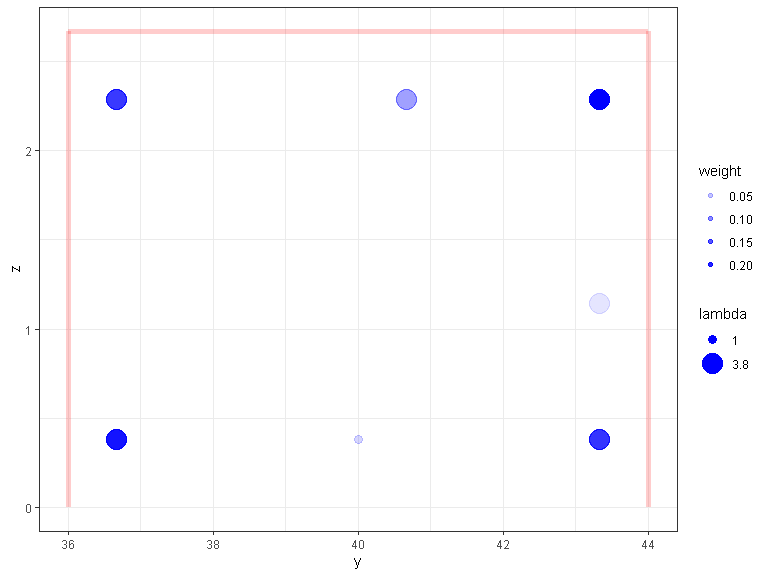
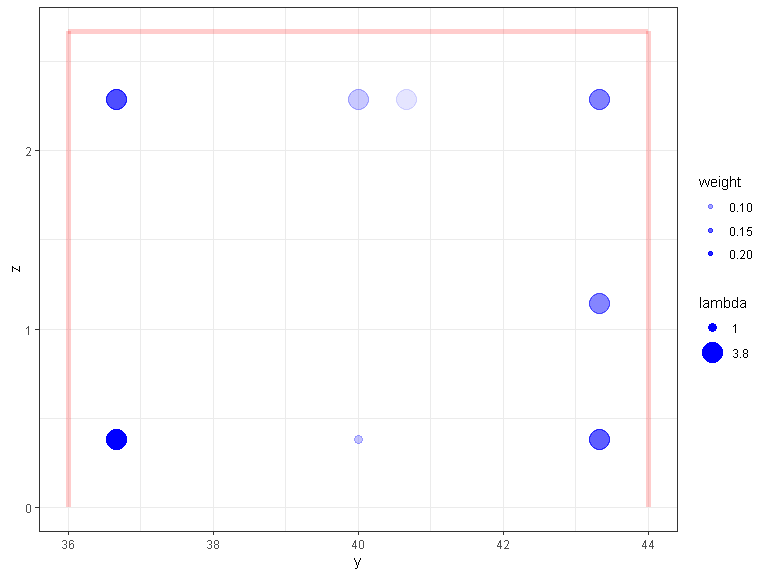
Save shot metrics

diff --git a/reproduction/miss_it_like_messi.md b/reproduction/miss_it_like_messi.md
@@ -4,6 +4,9 @@ Miss It Like Messi
 ``` r
 devtools::load_all()
 #> i Loading shotmissr
+#> Warning: Objects listed as exports, but not present in namespace:
+#> * global_weights
+#> * shot_metrics
 ```
 
 ## Table 1
@@ -221,60 +224,12 @@ Hunter_et_al_2018_shots |>
 
 ![](miss_it_like_messi_files/figure-gfm/figure_8-2.png)<!-- -->
 
-## Estimate global weights
-
-``` r
-shots_data <- statsbomb_shots_processed |>
-  prepare_shooting_skill_data()
-
-mixture_model_components <- get_mixture_model_components()
-
-pdfs <- get_shot_probability_densities(
-  mixture_model_components,
-  shots = shots_data |>
-    dplyr::select(y_end_proj, z_end_proj) |>
-    as.matrix()
-)
-
-global_weights <- fit_global_weights(pdfs, iter = 500, seed = 42)
-#> Chain 1: ------------------------------------------------------------
-#> Chain 1: EXPERIMENTAL ALGORITHM:
-#> Chain 1:   This procedure has not been thoroughly tested and may be unstable
-#> Chain 1:   or buggy. The interface is subject to change.
-#> Chain 1: ------------------------------------------------------------
-#> Chain 1: 
-#> Chain 1: 
-#> Chain 1: 
-#> Chain 1: Gradient evaluation took 0.084 seconds
-#> Chain 1: 1000 transitions using 10 leapfrog steps per transition would take 840 seconds.
-#> Chain 1: Adjust your expectations accordingly!
-#> Chain 1: 
-#> Chain 1: 
-#> Chain 1: Begin eta adaptation.
-#> Chain 1: Iteration:   1 / 250 [  0%]  (Adaptation)
-#> Chain 1: Iteration:  50 / 250 [ 20%]  (Adaptation)
-#> Chain 1: Iteration: 100 / 250 [ 40%]  (Adaptation)
-#> Chain 1: Iteration: 150 / 250 [ 60%]  (Adaptation)
-#> Chain 1: Iteration: 200 / 250 [ 80%]  (Adaptation)
-#> Chain 1: Success! Found best value [eta = 1] earlier than expected.
-#> Chain 1: 
-#> Chain 1: Begin stochastic gradient ascent.
-#> Chain 1:   iter             ELBO   delta_ELBO_mean   delta_ELBO_med   notes 
-#> Chain 1:    100      -253242.244             1.000            1.000
-#> Chain 1:    200      -252968.504             0.501            1.000
-#> Chain 1:    300      -252938.710             0.001            0.001   MEAN ELBO CONVERGED   MEDIAN ELBO CONVERGED
-#> Chain 1: 
-#> Chain 1: Drawing a sample of size 1000 from the approximate posterior... 
-#> Chain 1: COMPLETED.
-#> Warning: Pareto k diagnostic value is 2.41. Resampling is disabled. Decreasing
-#> tol_rel_obj may help if variational algorithm has terminated prematurely.
-#> Otherwise consider using sampling instead.
-```
-
 ## Figure 3
 
 ``` r
-mixture_model_components |>
+mixture_model_components <- get_mixture_model_components()
+
+mixture_model_components[selected_components,] |>
   dplyr::mutate(
     y = purrr::map_dbl(mean, ~.[[1]]),
     z = purrr::map_dbl(mean, ~.[[2]]),
@@ -291,81 +246,10 @@ mixture_model_components |>
 
 ![](miss_it_like_messi_files/figure-gfm/figure_3-1.png)<!-- -->
 
-## Estimate player weights
+## Calculate player metrics
 
 ``` r
-half_season_shots_data <- statsbomb_shots_processed |>
-  dplyr::filter(!is.na(z_end_proj)) |>
-  dplyr::group_by(player, Season) |>
-  dplyr::mutate(first_half_season = dplyr::row_number() < dplyr::n() / 2) |>
-  dplyr::ungroup()
-
-shooting_skill_data <- get_player_groups(
-  half_season_shots_data,
-  grouping_cols = c("player", "Season", "first_half_season"),
-  group_size_threshold = 3
-)
-
-selected_components <- which(global_weights > 0.012)
-
-pdfs <- get_shot_probability_densities(
-  mixture_model_components[selected_components,],
-  shooting_skill_data |> dplyr::select(y_end_proj, z_end_proj) |> as.matrix()
-)
-
-mixture_model_fit <- fit_player_weights(
-  pdfs,
-  shooting_skill_data$group_id,
-  alpha = 30,
-  iter = 500,
-  seed = 42
-)
-#> Chain 1: ------------------------------------------------------------
-#> Chain 1: EXPERIMENTAL ALGORITHM:
-#> Chain 1:   This procedure has not been thoroughly tested and may be unstable
-#> Chain 1:   or buggy. The interface is subject to change.
-#> Chain 1: ------------------------------------------------------------
-#> Chain 1: 
-#> Chain 1: 
-#> Chain 1: 
-#> Chain 1: Gradient evaluation took 0.161 seconds
-#> Chain 1: 1000 transitions using 10 leapfrog steps per transition would take 1610 seconds.
-#> Chain 1: Adjust your expectations accordingly!
-#> Chain 1: 
-#> Chain 1: 
-#> Chain 1: Begin eta adaptation.
-#> Chain 1: Iteration:   1 / 250 [  0%]  (Adaptation)
-#> Chain 1: Iteration:  50 / 250 [ 20%]  (Adaptation)
-#> Chain 1: Iteration: 100 / 250 [ 40%]  (Adaptation)
-#> Chain 1: Iteration: 150 / 250 [ 60%]  (Adaptation)
-#> Chain 1: Iteration: 200 / 250 [ 80%]  (Adaptation)
-#> Chain 1: Success! Found best value [eta = 1] earlier than expected.
-#> Chain 1: 
-#> Chain 1: Begin stochastic gradient ascent.
-#> Chain 1:   iter             ELBO   delta_ELBO_mean   delta_ELBO_med   notes 
-#> Chain 1:    100      -471292.882             1.000            1.000
-#> Chain 1:    200      -469268.411             0.502            1.000
-#> Chain 1:    300      -468540.833             0.003            0.004   MEAN ELBO CONVERGED   MEDIAN ELBO CONVERGED
-#> Chain 1: 
-#> Chain 1: Drawing a sample of size 1000 from the approximate posterior... 
-#> Chain 1: COMPLETED.
-#> Warning: Pareto k diagnostic value is 19.8. Resampling is disabled. Decreasing
-#> tol_rel_obj may help if variational algorithm has terminated prematurely.
-#> Otherwise consider using sampling instead.
-
-player_weights <- mixture_model_fit[["player_weights"]]
-```
-
-``` r
-component_values <- mixture_model_components[selected_components,] |>
-  get_component_values() |>
-  dplyr::pull(value)
-
-half_season_metrics <- shooting_skill_data |>
-  load_rb_post_xg(player_weights, component_values) |>
-  load_gen_post_xg(pdfs, mixture_model_fit[["global_weights"]], component_values)
-
-half_season_stats <- half_season_metrics |>
+half_season_stats <- shot_metrics |>
   dplyr::mutate(SBPostXg = ifelse(is.na(SBPostXg), 0, SBPostXg)) |>
   dplyr::mutate(goal_pct = (outcome == "Goal")) |>
   dplyr::mutate(
@@ -408,13 +292,13 @@ stability_data |>
   knitr::kable()
 ```
 
-|               | goal_pct_b |     gax_b |     ega_b | rb_post_xg_b | gen_post_xg_b |
-|:--------------|-----------:|----------:|----------:|-------------:|--------------:|
-| goal_pct_a    |  0.1753718 | 0.0408746 | 0.0858735 |    0.0958211 |     0.1397574 |
-| gax_a         |  0.0642856 | 0.0384039 | 0.0785441 |    0.0276487 |     0.0659014 |
-| ega_a         |  0.0387612 | 0.0092856 | 0.0544922 |   -0.0058102 |     0.0292018 |
-| rb_post_xg_a  |  0.0732375 | 0.0032928 | 0.0168249 |    0.1188463 |     0.1086980 |
-| gen_post_xg_a |  0.0982143 | 0.0146206 | 0.0290529 |    0.1036663 |     0.1371268 |
+|               | goal_pct_b |     gax_b |      ega_b | rb_post_xg_b | gen_post_xg_b |
+|:--------------|-----------:|----------:|-----------:|-------------:|--------------:|
+| goal_pct_a    |  0.0504398 | 0.0479698 |  0.0099914 |    0.0072382 |     0.0107215 |
+| gax_a         |  0.0434784 | 0.0444193 | -0.0000781 |   -0.0018262 |     0.0006315 |
+| ega_a         |  0.0371670 | 0.0322199 |  0.0072857 |    0.0117910 |     0.0165535 |
+| rb_post_xg_a  |  0.0356349 | 0.0316687 | -0.0015131 |    0.0699952 |     0.0805474 |
+| gen_post_xg_a |  0.0394548 | 0.0332513 | -0.0012836 |    0.0840899 |     0.0883617 |
 
 ## Table 4
 
@@ -440,13 +324,13 @@ stability_data |>
   knitr::kable()
 ```
 
-|               | goal_pct_b |      gax_b |      ega_b | rb_post_xg_b | gen_post_xg_b |
-|:--------------|-----------:|-----------:|-----------:|-------------:|--------------:|
-| goal_pct_a    |  0.2589755 | -0.0205521 | -0.0045566 |    0.0901779 |     0.0925456 |
-| gax_a         |  0.0369088 |  0.0111359 |  0.0280317 |   -0.0398064 |    -0.0215731 |
-| ega_a         | -0.0108390 | -0.0188603 | -0.0076556 |   -0.0334169 |    -0.0502244 |
-| rb_post_xg_a  |  0.1387011 |  0.0198329 | -0.0081443 |    0.1168845 |     0.1087846 |
-| gen_post_xg_a |  0.1756899 |  0.0360483 |  0.0097168 |    0.1396830 |     0.1429201 |
+|               | goal_pct_b |      gax_b |     ega_b | rb_post_xg_b | gen_post_xg_b |
+|:--------------|-----------:|-----------:|----------:|-------------:|--------------:|
+| goal_pct_a    |  0.0909079 |  0.0731302 | 0.1085867 |   -0.0526890 |     0.0002168 |
+| gax_a         |  0.0769423 |  0.0614395 | 0.0898154 |   -0.0426120 |    -0.0012271 |
+| ega_a         | -0.0320833 | -0.0411309 | 0.0630560 |    0.0417377 |     0.0361398 |
+| rb_post_xg_a  | -0.0063821 | -0.0154622 | 0.1170909 |    0.1417057 |     0.1897055 |
+| gen_post_xg_a |  0.0403484 |  0.0326014 | 0.1230452 |    0.1680108 |     0.2002205 |
 
 ## Figure 6
 
